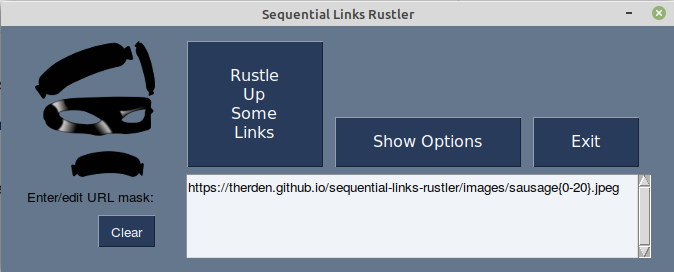
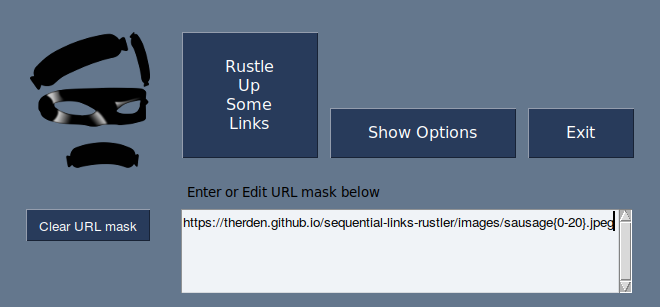
Fine-tuned the GUI some more; updated screenshots.

diff --git a/slr.py b/slr.py
@@ -40,16 +40,13 @@ button_options = sg.Button(
 )
 button_exit = sg.Button("Exit", size=(8, 2), font=("Any", 12))
 label_URLmask = sg.Text(
-    "Enter/edit URL mask:", size=(18, 1), text_color="black", justification="right"
+    " Enter or Edit URL mask below", text_color="black", font=("Any", 10)
 )
-button_clear = sg.Button("Clear", size=(None, 1), key="-Clear URL mask-")
+input_URLmask = sg.Multiline(key="-URLMask-", size=(62, 4), focus=True)
+button_clear = sg.Button("Clear URL mask", size=(None, 1), key="-Clear URL mask-")
 
 # create Options gui elements
-input_URLmask = sg.Multiline(key="-URLMask-", size=(64, 4), focus=True)
-button_reset = sg.Button("Reset", key="-HTML_Defaults-")
-label_image_options = sg.Text(
-    "\nImage Options ", size=(18, 4), text_color="black", justification="right"
-)
+button_reset = sg.Button("Restore default filepath and name", key="-HTML_Defaults-")
 label_imagesize = sg.Text("Image thumbnail size:")
 label_file_options = sg.Text(
     "HTML File Options ", size=(18, 1), text_color="black", justification="right",
@@ -65,9 +62,9 @@ input_hideborked = sg.Checkbox(
     " Hide broken image links", default=False, key="-HideBorkedImages-"
 )
 label_filepath = sg.Text("Path:")
-input_filepath = sg.Input(key="-FilePath-", size=(33, 1), default_text=home_dir)
+input_filepath = sg.Input(key="-FilePath-", size=(31, 1), default_text=home_dir)
 label_filename = sg.Text("Name:")
-input_filename = sg.Input(key="-FileName-", size=(17, 1), default_text="rustled.html")
+input_filename = sg.Input(key="-FileName-", size=(13, 1), default_text="rustled.html")
 input_delete = sg.Checkbox(
     " Delete HTML file on Exit", default=True, key="-DeleteFile-"
 )
@@ -85,45 +82,79 @@ input_browser = sg.Combo(
 
 # create layout
 fixed_column_1 = sg.Column(
-    [[rustler_logo], [label_URLmask], [button_clear],], element_justification="right"
-)
-
-toggle_column_1 = sg.Column(
     [
-        [label_image_options],
-        [sg.Text(" ", font=("Any", 7))],
-        [label_file_options],
-        [button_reset],
-        [sg.Text(" ", font=("Any", 6))],
-        [label_browser],
+        [sg.Text(" ", font=("Any", 4))],
+        [rustler_logo],
+        [sg.Text(" ", font=("Any", 14))],
+        [button_clear],
     ],
     element_justification="right",
-    key="tc1",
 )
 
 fixed_column_2 = sg.Column(
     [
+        [sg.Text(" ", font=("Any", 4))],
         [button_rustle, sg.vbottom(button_options), sg.vbottom(button_exit)],
+        [sg.Text(" ", font=("Any", 4))],
+        [label_URLmask],
         [input_URLmask],
-    ]
-)
-
-toggle_column_2 = sg.Column(
-    [
-        [sg.Text(" ", font=("Any", 13))],
-        [label_imagesize, spin_thumbsize, label_percent_width],
-        [input_hideborked],
-        [sg.Text(" ")],
-        [label_filepath, input_filepath, label_filename, input_filename],
-        [input_delete],
-        [sg.Text(" ", font=("Any", 12))],
-        [input_browser],
     ],
-    key="tc2",
 )
 
-column_a = sg.Column([[fixed_column_1], [toggle_column_1]])
-column_b = sg.Column([[sg.vbottom(fixed_column_2)], [toggle_column_2]])
+
+options_column = sg.Column(
+    [
+        [
+            sg.Frame(
+                "Image Options",
+                [
+                    [
+                        sg.Column(
+                            [
+                                [label_imagesize, spin_thumbsize, label_percent_width],
+                                [input_hideborked],
+                            ]
+                        )
+                    ]
+                ],
+                title_color="black",
+            )
+        ],
+        [
+            sg.Frame(
+                "HTML File Options",
+                [
+                    [
+                        sg.Column(
+                            [
+                                [
+                                    label_filepath,
+                                    input_filepath,
+                                    label_filename,
+                                    input_filename,
+                                ],
+                                [sg.Text("", size=(4, 1)), button_reset],
+                                [input_delete],
+                            ],
+                        )
+                    ]
+                ],
+                title_color="black",
+            )
+        ],
+        [
+            sg.Frame(
+                "Choose Browser",
+                [[sg.Column([[input_browser],])]],
+                title_color="black",
+            )
+        ],
+    ],
+    key="options",
+)
+
+column_a = sg.Column([[fixed_column_1]])
+column_b = sg.Column([[sg.vbottom(fixed_column_2)], [options_column]])
 
 layout = [[sg.vtop(column_a), sg.vtop(column_b)]]
 
@@ -132,15 +163,12 @@ window = sg.Window(window_title, layout, icon=icon_file, finalize=True)
 
 
 def toggle_option_elements():
-    toggle_cols = ("tc1", "tc2")
-    if window[toggle_cols[0]].visible:
-        for each in toggle_cols:
-            window[each].hide_row()
-            window[each].update(visible=False)
+    if window["options"].visible:
+        window["options"].hide_row()
+        window["options"].update(visible=False)
     else:
-        for each in toggle_cols:
-            window[each].unhide_row()
-            window[each].update(visible=True)
+        window["options"].unhide_row()
+        window["options"].update(visible=True)
 
 
 toggle_option_elements()
